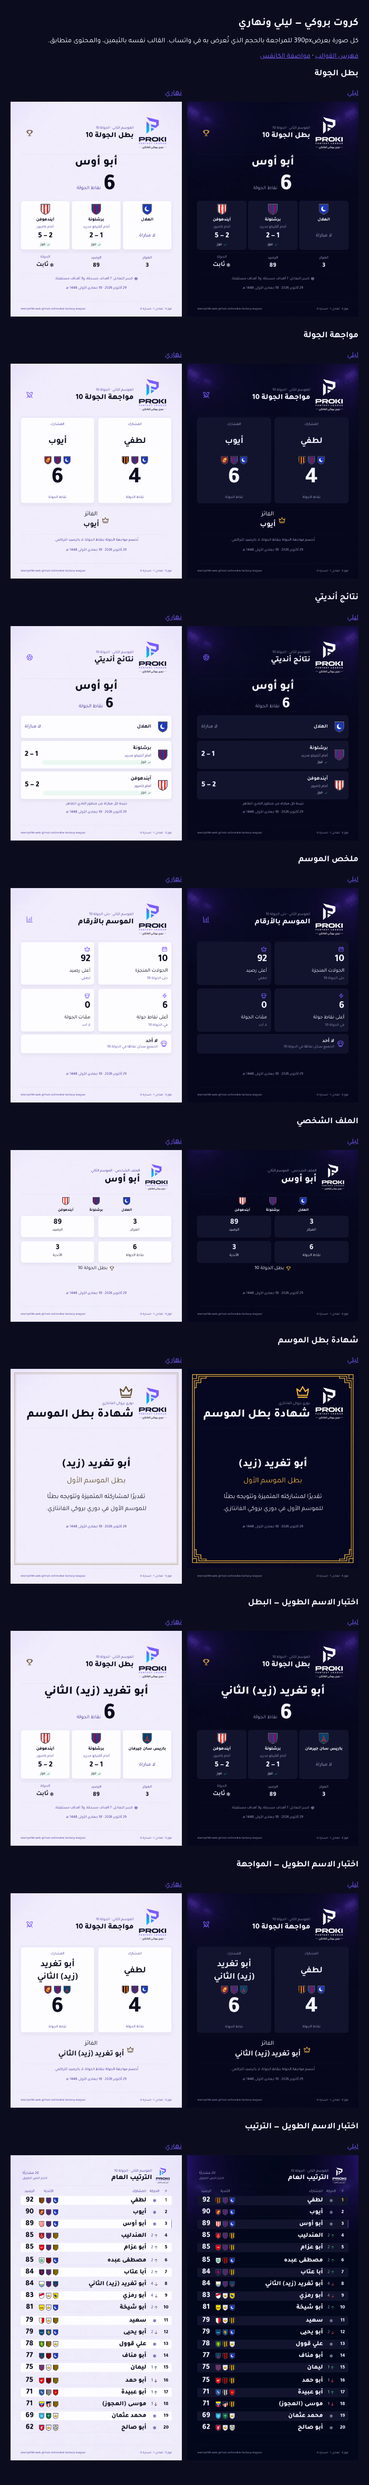
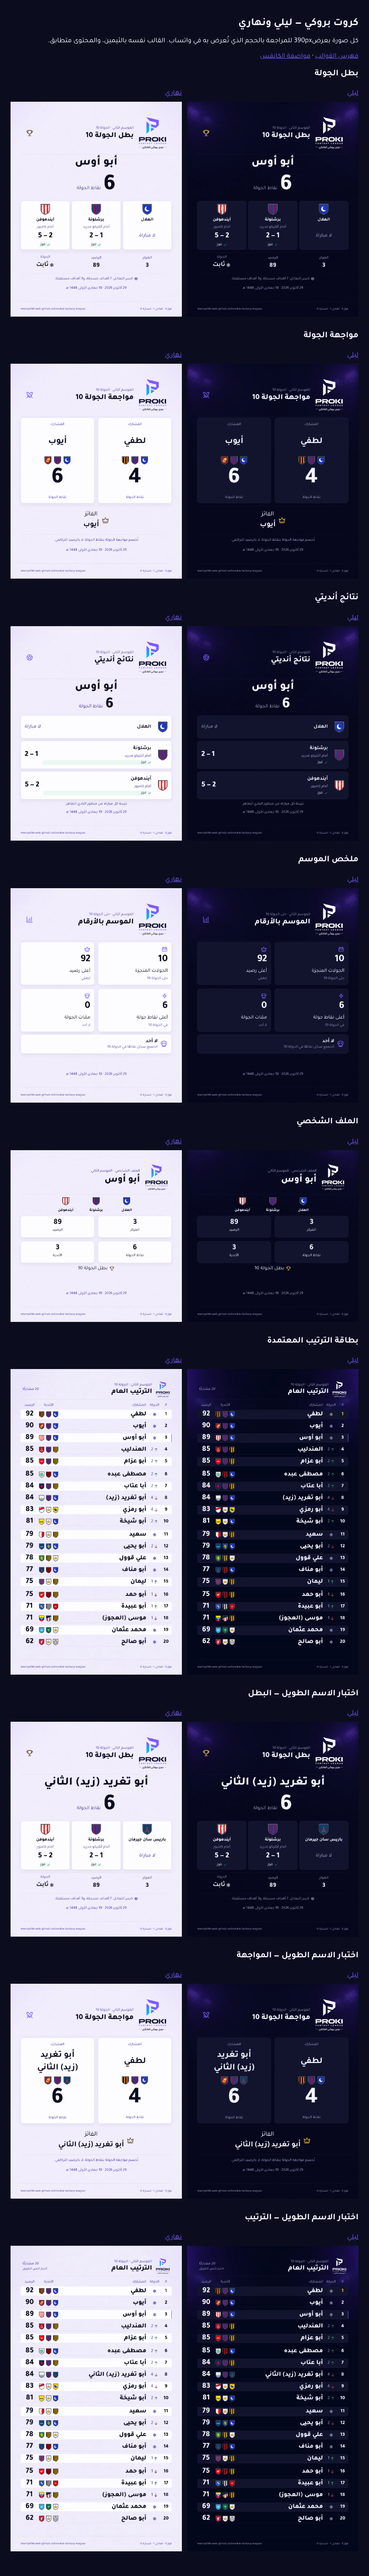
استبعاد الشهادة من الدفعة النهارية وفق نطاق المهمة المحدّث

diff --git a/assets/cards/cards-light-dark-compare.html b/assets/cards/cards-light-dark-compare.html
@@ -1,1 +1,1 @@
-<!doctype html><html lang="ar" dir="rtl"><head><meta charset="utf-8"><meta name="viewport" content="width=device-width,initial-scale=1"><title>كروت بروكي — ليلي ونهاري</title><link rel="stylesheet" href="../../css/tokens.css"><link rel="stylesheet" href="../../css/fonts.css"><style>body{margin:0;background:var(--c-bg);color:var(--c-text);font-family:var(--font)}main{max-width:840px;margin:auto;padding:24px}h1{font-size:24px}h2{font-size:20px}a{color:var(--c-brand)}.pair{display:grid;grid-template-columns:390px 390px;gap:12px;direction:rtl}.pair img{display:block;width:390px;height:auto}.pair figure{margin:0}.pair figcaption{padding:8px 0;color:var(--c-text-2)}section{margin-bottom:32px}@media(max-width:820px){main{padding:0}.pair{grid-template-columns:minmax(0,1fr);max-width:390px;margin-inline:auto}.pair img{width:100%}}</style></head><body><main><h1>كروت بروكي — ليلي ونهاري</h1><p>كل صورة بعرض390px للمراجعة بالحجم الذي تُعرض به في واتساب. القالب نفسه بالثيمين، والمحتوى متطابق.</p><p><a href="index.html">فهرس القوالب</a> · <a href="cards.layout.md">مواصفة الكانفس</a></p><section><h2>بطل الجولة</h2><div class="pair"><figure><figcaption><a href="champion-post.html?theme=dark">ليلي</a></figcaption><img src="shots/champion-post.png" alt="بطل الجولة — dark"></figure><figure><figcaption><a href="champion-post.html?theme=light">نهاري</a></figcaption><img src="shots/champion-post-light.png" alt="بطل الجولة — light"></figure></div></section><section><h2>مواجهة الجولة</h2><div class="pair"><figure><figcaption><a href="duel-post.html?theme=dark">ليلي</a></figcaption><img src="shots/duel-post.png" alt="مواجهة الجولة — dark"></figure><figure><figcaption><a href="duel-post.html?theme=light">نهاري</a></figcaption><img src="shots/duel-post-light.png" alt="مواجهة الجولة — light"></figure></div></section><section><h2>نتائج أنديتي</h2><div class="pair"><figure><figcaption><a href="my-clubs-post.html?theme=dark">ليلي</a></figcaption><img src="shots/my-clubs-post.png" alt="نتائج أنديتي — dark"></figure><figure><figcaption><a href="my-clubs-post.html?theme=light">نهاري</a></figcaption><img src="shots/my-clubs-post-light.png" alt="نتائج أنديتي — light"></figure></div></section><section><h2>ملخص الموسم</h2><div class="pair"><figure><figcaption><a href="season-wrap-post.html?theme=dark">ليلي</a></figcaption><img src="shots/season-wrap-post.png" alt="ملخص الموسم — dark"></figure><figure><figcaption><a href="season-wrap-post.html?theme=light">نهاري</a></figcaption><img src="shots/season-wrap-post-light.png" alt="ملخص الموسم — light"></figure></div></section><section><h2>الملف الشخصي</h2><div class="pair"><figure><figcaption><a href="profile-square.html?theme=dark">ليلي</a></figcaption><img src="shots/profile-square.png" alt="الملف الشخصي — dark"></figure><figure><figcaption><a href="profile-square.html?theme=light">نهاري</a></figcaption><img src="shots/profile-square-light.png" alt="الملف الشخصي — light"></figure></div></section><section><h2>شهادة بطل الموسم</h2><div class="pair"><figure><figcaption><a href="certificate-post.html?theme=dark">ليلي</a></figcaption><img src="shots/certificate-post.png" alt="شهادة بطل الموسم — dark"></figure><figure><figcaption><a href="certificate-post.html?theme=light">نهاري</a></figcaption><img src="shots/certificate-post-light.png" alt="شهادة بطل الموسم — light"></figure></div></section><section><h2>اختبار الاسم الطويل — البطل</h2><div class="pair"><figure><figcaption><a href="champion-post-stress.html?theme=dark">ليلي</a></figcaption><img src="shots/champion-post-stress.png" alt="اختبار الاسم الطويل — البطل — dark"></figure><figure><figcaption><a href="champion-post-stress.html?theme=light">نهاري</a></figcaption><img src="shots/champion-post-stress-light.png" alt="اختبار الاسم الطويل — البطل — light"></figure></div></section><section><h2>اختبار الاسم الطويل — المواجهة</h2><div class="pair"><figure><figcaption><a href="duel-post-stress.html?theme=dark">ليلي</a></figcaption><img src="shots/duel-post-stress.png" alt="اختبار الاسم الطويل — المواجهة — dark"></figure><figure><figcaption><a href="duel-post-stress.html?theme=light">نهاري</a></figcaption><img src="shots/duel-post-stress-light.png" alt="اختبار الاسم الطويل — المواجهة — light"></figure></div></section><section><h2>اختبار الاسم الطويل — الترتيب</h2><div class="pair"><figure><figcaption><a href="standings-card.html?stress=1&amp;theme=dark">ليلي</a></figcaption><img src="shots/standings-card-long-name-dark.png" alt="اختبار الاسم الطويل — الترتيب — dark"></figure><figure><figcaption><a href="standings-card.html?stress=1&amp;theme=light">نهاري</a></figcaption><img src="shots/standings-card-long-name-light.png" alt="اختبار الاسم الطويل — الترتيب — light"></figure></div></section></main></body></html>
+<!doctype html><html lang="ar" dir="rtl"><head><meta charset="utf-8"><meta name="viewport" content="width=device-width,initial-scale=1"><title>كروت بروكي — ليلي ونهاري</title><link rel="stylesheet" href="../../css/tokens.css"><link rel="stylesheet" href="../../css/fonts.css"><style>body{margin:0;background:var(--c-bg);color:var(--c-text);font-family:var(--font)}main{max-width:840px;margin:auto;padding:24px}h1{font-size:24px}h2{font-size:20px}a{color:var(--c-brand)}.pair{display:grid;grid-template-columns:390px 390px;gap:12px;direction:rtl}.pair img{display:block;width:390px;height:auto}.pair figure{margin:0}.pair figcaption{padding:8px 0;color:var(--c-text-2)}section{margin-bottom:32px}@media(max-width:820px){main{padding:0}.pair{grid-template-columns:minmax(0,1fr);max-width:390px;margin-inline:auto}.pair img{width:100%}}</style></head><body><main><h1>كروت بروكي — ليلي ونهاري</h1><p>كل صورة بعرض390px للمراجعة بالحجم الذي تُعرض به في واتساب. القالب نفسه بالثيمين، والمحتوى متطابق.</p><p><a href="index.html">فهرس القوالب</a> · <a href="cards.layout.md">مواصفة الكانفس</a></p><section><h2>بطل الجولة</h2><div class="pair"><figure><figcaption><a href="champion-post.html?theme=dark">ليلي</a></figcaption><img src="shots/champion-post.png" alt="بطل الجولة — dark"></figure><figure><figcaption><a href="champion-post.html?theme=light">نهاري</a></figcaption><img src="shots/champion-post-light.png" alt="بطل الجولة — light"></figure></div></section><section><h2>مواجهة الجولة</h2><div class="pair"><figure><figcaption><a href="duel-post.html?theme=dark">ليلي</a></figcaption><img src="shots/duel-post.png" alt="مواجهة الجولة — dark"></figure><figure><figcaption><a href="duel-post.html?theme=light">نهاري</a></figcaption><img src="shots/duel-post-light.png" alt="مواجهة الجولة — light"></figure></div></section><section><h2>نتائج أنديتي</h2><div class="pair"><figure><figcaption><a href="my-clubs-post.html?theme=dark">ليلي</a></figcaption><img src="shots/my-clubs-post.png" alt="نتائج أنديتي — dark"></figure><figure><figcaption><a href="my-clubs-post.html?theme=light">نهاري</a></figcaption><img src="shots/my-clubs-post-light.png" alt="نتائج أنديتي — light"></figure></div></section><section><h2>ملخص الموسم</h2><div class="pair"><figure><figcaption><a href="season-wrap-post.html?theme=dark">ليلي</a></figcaption><img src="shots/season-wrap-post.png" alt="ملخص الموسم — dark"></figure><figure><figcaption><a href="season-wrap-post.html?theme=light">نهاري</a></figcaption><img src="shots/season-wrap-post-light.png" alt="ملخص الموسم — light"></figure></div></section><section><h2>الملف الشخصي</h2><div class="pair"><figure><figcaption><a href="profile-square.html?theme=dark">ليلي</a></figcaption><img src="shots/profile-square.png" alt="الملف الشخصي — dark"></figure><figure><figcaption><a href="profile-square.html?theme=light">نهاري</a></figcaption><img src="shots/profile-square-light.png" alt="الملف الشخصي — light"></figure></div></section><section><h2>بطاقة الترتيب المعتمدة</h2><div class="pair"><figure><figcaption><a href="standings-card.html">ليلي</a></figcaption><img src="shots/standings-card-20-dark.png" alt="الترتيب الليلي"></figure><figure><figcaption><a href="standings-card.html?theme=light">نهاري</a></figcaption><img src="shots/standings-card-20-light.png" alt="الترتيب النهاري"></figure></div></section><section><h2>اختبار الاسم الطويل — البطل</h2><div class="pair"><figure><figcaption><a href="champion-post-stress.html?theme=dark">ليلي</a></figcaption><img src="shots/champion-post-stress.png" alt="اختبار الاسم الطويل — البطل — dark"></figure><figure><figcaption><a href="champion-post-stress.html?theme=light">نهاري</a></figcaption><img src="shots/champion-post-stress-light.png" alt="اختبار الاسم الطويل — البطل — light"></figure></div></section><section><h2>اختبار الاسم الطويل — المواجهة</h2><div class="pair"><figure><figcaption><a href="duel-post-stress.html?theme=dark">ليلي</a></figcaption><img src="shots/duel-post-stress.png" alt="اختبار الاسم الطويل — المواجهة — dark"></figure><figure><figcaption><a href="duel-post-stress.html?theme=light">نهاري</a></figcaption><img src="shots/duel-post-stress-light.png" alt="اختبار الاسم الطويل — المواجهة — light"></figure></div></section><section><h2>اختبار الاسم الطويل — الترتيب</h2><div class="pair"><figure><figcaption><a href="standings-card.html?stress=1&amp;theme=dark">ليلي</a></figcaption><img src="shots/standings-card-long-name-dark.png" alt="اختبار الاسم الطويل — الترتيب — dark"></figure><figure><figcaption><a href="standings-card.html?stress=1&amp;theme=light">نهاري</a></figcaption><img src="shots/standings-card-long-name-light.png" alt="اختبار الاسم الطويل — الترتيب — light"></figure></div></section></main></body></html>

diff --git a/assets/cards/index.html b/assets/cards/index.html
@@ -1,1 +1,1 @@
-<!doctype html><html lang="ar" dir="rtl"><head><meta charset="utf-8"><meta name="viewport" content="width=device-width,initial-scale=1"><title>قوالب بروكي النهائية</title><link rel="stylesheet" href="../../css/tokens.css"><link rel="stylesheet" href="../../css/fonts.css"><link rel="stylesheet" href="cards.css"></head><body><main class="gallery-page"><h1>كروت بروكي</h1><p>بطاقة الترتيب المعتمدة بمقاس1080×1920 تعرض الجميع في صورة واحدة، بنسختين ليلية ونهارية.</p><div class="gallery-links"><a class="gallery-link" href="standings-card.html"><span><b>بطاقة الترتيب الكاملة</b><small>20 مشاركًا · 1080×1920</small></span></a><a class="gallery-link" href="champion-post.html"><span><b>بطل الجولة</b><small>1080×1350</small></span></a><a class="gallery-link" href="duel-post.html"><span><b>مواجهة الجولة</b><small>1080×1350</small></span></a><a class="gallery-link" href="my-clubs-post.html"><span><b>نتائج أنديتي</b><small>1080×1350</small></span></a><a class="gallery-link" href="season-wrap-post.html"><span><b>ملخص الموسم</b><small>1080×1350</small></span></a><a class="gallery-link" href="profile-square.html"><span><b>الملف الشخصي</b><small>1080×1080</small></span></a><a class="gallery-link" href="certificate-post.html"><span><b>شهادة البطل</b><small>1080×1350</small></span></a></div><h2>القوالب النهارية</h2><div class="gallery-links"><a class="gallery-link" href="standings-card.html?theme=light">الترتيب الكامل — نهاري</a><a class="gallery-link" href="_crests-compare.html">مقارنة الليلي والنهاري</a><a class="gallery-link" href="standings-card.layout.md">مواصفة التخطيط الرقمية للكانفس</a></div><div class="gallery-links"><a class="gallery-link" href="champion-post.html?theme=light">بطل الجولة — نهاري</a><a class="gallery-link" href="duel-post.html?theme=light">مواجهة الجولة — نهاري</a><a class="gallery-link" href="my-clubs-post.html?theme=light">نتائج أنديتي — نهاري</a><a class="gallery-link" href="season-wrap-post.html?theme=light">ملخص الموسم — نهاري</a><a class="gallery-link" href="profile-square.html?theme=light">الملف الشخصي — نهاري</a><a class="gallery-link" href="certificate-post.html?theme=light">شهادة بطل الموسم — نهاري</a><a class="gallery-link" href="cards-light-dark-compare.html">مقارنة الكروت الستة وحالات الضغط بالثيمين</a><a class="gallery-link" href="cards.layout.md">مواصفة تخطيط الكروت الستة للكانفس</a></div><h2>اختبارات التكيّف والنص</h2><p class="gallery-note">هذه عينات اختبار هندسي؛ ليست نتائج بطولة بعدد مختلف من المشاركين. عينة24 تكرر صفًا مصدريًا بدل اختلاق مشاركين.</p><div class="gallery-links"><a class="gallery-link" href="standings-card.html?n=18">اختبار18 صفًا</a><a class="gallery-link" href="standings-card.html?n=24&amp;theme=light">اختبار24 صفًا</a><a class="gallery-link" href="standings-card.html?stress=1">أطول اسم ونادٍ — ليلي</a><a class="gallery-link" href="standings-card.html?stress=1&amp;theme=light">أطول اسم ونادٍ — نهاري</a><a class="gallery-link" href="champion-post-stress.html">اختبار بطل الجولة</a><a class="gallery-link" href="duel-post-stress.html">اختبار المواجهة</a></div><h2>مراجعة الهوية</h2><div class="gallery-links"><a class="gallery-link" href="_logo-compare.html">الشعار في القوالب الحالية</a><a class="gallery-link" href="../crests/_compare-light.html">شعارات الأندية على الفاتح والأبيض</a><a class="gallery-link" href="crests-light-check.html">فحص وضوح الأصول</a></div><p class="gallery-note">هذه معاينات ببيانات الجولة10. الكروت السبعة تعمل ليلًا ونهارًا؛ التصدير بالكانفس مهمة برمجية لاحقة.</p></main></body></html>
+<!doctype html><html lang="ar" dir="rtl"><head><meta charset="utf-8"><meta name="viewport" content="width=device-width,initial-scale=1"><title>قوالب بروكي النهائية</title><link rel="stylesheet" href="../../css/tokens.css"><link rel="stylesheet" href="../../css/fonts.css"><link rel="stylesheet" href="cards.css"></head><body><main class="gallery-page"><h1>كروت بروكي</h1><p>بطاقة الترتيب المعتمدة بمقاس1080×1920 تعرض الجميع في صورة واحدة، بنسختين ليلية ونهارية.</p><div class="gallery-links"><a class="gallery-link" href="standings-card.html"><span><b>بطاقة الترتيب الكاملة</b><small>20 مشاركًا · 1080×1920</small></span></a><a class="gallery-link" href="champion-post.html"><span><b>بطل الجولة</b><small>1080×1350</small></span></a><a class="gallery-link" href="duel-post.html"><span><b>مواجهة الجولة</b><small>1080×1350</small></span></a><a class="gallery-link" href="my-clubs-post.html"><span><b>نتائج أنديتي</b><small>1080×1350</small></span></a><a class="gallery-link" href="season-wrap-post.html"><span><b>ملخص الموسم</b><small>1080×1350</small></span></a><a class="gallery-link" href="profile-square.html"><span><b>الملف الشخصي</b><small>1080×1080</small></span></a><a class="gallery-link" href="certificate-post.html"><span><b>شهادة البطل</b><small>1080×1350</small></span></a></div><h2>القوالب النهارية</h2><div class="gallery-links"><a class="gallery-link" href="standings-card.html?theme=light">الترتيب الكامل — نهاري</a><a class="gallery-link" href="_crests-compare.html">مقارنة الليلي والنهاري</a><a class="gallery-link" href="standings-card.layout.md">مواصفة التخطيط الرقمية للكانفس</a></div><div class="gallery-links"><a class="gallery-link" href="champion-post.html?theme=light">بطل الجولة — نهاري</a><a class="gallery-link" href="duel-post.html?theme=light">مواجهة الجولة — نهاري</a><a class="gallery-link" href="my-clubs-post.html?theme=light">نتائج أنديتي — نهاري</a><a class="gallery-link" href="season-wrap-post.html?theme=light">ملخص الموسم — نهاري</a><a class="gallery-link" href="profile-square.html?theme=light">الملف الشخصي — نهاري</a><a class="gallery-link" href="cards-light-dark-compare.html">مقارنة الكروت الخمسة وحالات الضغط بالثيمين</a><a class="gallery-link" href="cards.layout.md">مواصفة تخطيط الكروت الخمسة للكانفس</a></div><h2>اختبارات التكيّف والنص</h2><p class="gallery-note">هذه عينات اختبار هندسي؛ ليست نتائج بطولة بعدد مختلف من المشاركين. عينة24 تكرر صفًا مصدريًا بدل اختلاق مشاركين.</p><div class="gallery-links"><a class="gallery-link" href="standings-card.html?n=18">اختبار18 صفًا</a><a class="gallery-link" href="standings-card.html?n=24&amp;theme=light">اختبار24 صفًا</a><a class="gallery-link" href="standings-card.html?stress=1">أطول اسم ونادٍ — ليلي</a><a class="gallery-link" href="standings-card.html?stress=1&amp;theme=light">أطول اسم ونادٍ — نهاري</a><a class="gallery-link" href="champion-post-stress.html">اختبار بطل الجولة</a><a class="gallery-link" href="duel-post-stress.html">اختبار المواجهة</a></div><h2>مراجعة الهوية</h2><div class="gallery-links"><a class="gallery-link" href="_logo-compare.html">الشعار في القوالب الحالية</a><a class="gallery-link" href="../crests/_compare-light.html">شعارات الأندية على الفاتح والأبيض</a><a class="gallery-link" href="crests-light-check.html">فحص وضوح الأصول</a></div><p class="gallery-note">هذه معاينات ببيانات الجولة10. بطاقة الترتيب والكروت الخمسة تعمل ليلًا ونهارًا؛ الشهادة الحالية محفوظة لإعادة تصميمها في C15؛ التصدير بالكانفس مهمة برمجية لاحقة.</p></main></body></html>

diff --git a/assets/cards/certificate-post.html b/assets/cards/certificate-post.html
@@ -2,4 +2,4 @@
 <html lang="ar" dir="rtl"><head><meta charset="utf-8"><meta name="viewport" content="width=device-width,initial-scale=1"><title>شهادة بطل الموسم الأول | دوري بروكي</title><link rel="stylesheet" href="../../css/tokens.css"><link rel="stylesheet" href="../../css/fonts.css"><link rel="stylesheet" href="cards.css"></head><body><main class="card certificate" data-template="certificate-post" aria-label="شهادة بطل الموسم الأول"><div class="safe"><header class="card-header"><img class="logo" src="../brand/proki-logo.svg" alt="PROKI Fantasy League — دوري بروكي الفانتازي" width="112" height="129"><div class="brand-heading"><svg class="icon ceremony-icon" aria-hidden="true" focusable="false" xmlns="http://www.w3.org/2000/svg" viewBox="0 0 24 24" fill="none" stroke="currentColor" stroke-width="1.75" stroke-linecap="round" stroke-linejoin="round">
   <path d="m4.5 17.5-1.5-10 4.8 4L12 4l4.2 7.5 4.8-4-1.5 10Z"/>
   <path d="M5 20.5h14"/>
-</svg><p class="eyebrow">دوري بروكي الفانتازي</p><h1>شهادة بطل الموسم</h1></div></header><div class="content"><h2 class="participant-name">أبو تغريد (زيد)</h2><p class="season-title">بطل الموسم الأول</p><p class="certificate-copy">تقديرًا لمشاركته المتميزة وتتويجه بطلًا للموسم الأول في دوري بروكي الفانتازي.</p><p class="date">29 أكتوبر 2026 · 18 جمادى الأولى 1448 هـ</p></div></div><footer class="card-footer"><span>فوز 3 · تعادل 1 · خسارة 0</span><a href="https://wwrrp456-web.github.io/brookie-fantasy-league/">wwrrp456-web.github.io/brookie-fantasy-league/</a></footer></main><script src="cards-theme.js"></script></body></html>
+</svg><p class="eyebrow">دوري بروكي الفانتازي</p><h1>شهادة بطل الموسم</h1></div></header><div class="content"><h2 class="participant-name">أبو تغريد (زيد)</h2><p class="season-title">بطل الموسم الأول</p><p class="certificate-copy">تقديرًا لمشاركته المتميزة وتتويجه بطلًا للموسم الأول في دوري بروكي الفانتازي.</p><p class="date">29 أكتوبر 2026 · 18 جمادى الأولى 1448 هـ</p></div></div><footer class="card-footer"><span>فوز 3 · تعادل 1 · خسارة 0</span><a href="https://wwrrp456-web.github.io/brookie-fantasy-league/">wwrrp456-web.github.io/brookie-fantasy-league/</a></footer></main></body></html>

diff --git a/assets/cards/cards.css b/assets/cards/cards.css
@@ -591,7 +591,7 @@ a:focus-visible {
 .card .club-grid{align-items:stretch}
 
 /* R-17: أسطح نهارية مستقلة؛ المقاسات والإيقاع مشتركة بين الثيمين. */
-html.light-mode .card{background-image:url(bg-post-light.webp)}
+html.light-mode .card:not(.certificate){background-image:url(bg-post-light.webp)}
 html.light-mode .card .club-panel,
 html.light-mode .card .duel-person,
 html.light-mode .card .stat-tile,
@@ -602,9 +602,7 @@ html.light-mode .card .empty-mummas{
 html.light-mode .card .gold,
 html.light-mode .card .champion-title .icon,
 html.light-mode .card .duel-winner .icon,
-html.light-mode .card .profile-badge .icon,
-html.light-mode .card .ceremony-icon,
-html.light-mode .card .season-title{color:color-mix(in srgb,var(--c-gold) 34%,var(--c-text))}
+html.light-mode .card .profile-badge .icon{color:color-mix(in srgb,var(--c-gold) 34%,var(--c-text))}
 html.light-mode .card .up{color:color-mix(in srgb,var(--c-up) 34%,var(--c-text))}
 html.light-mode .card .down{color:color-mix(in srgb,var(--c-down) 34%,var(--c-text))}
 html.light-mode .card .result-label{
@@ -613,12 +611,3 @@ html.light-mode .card .result-label{
 }
 html.light-mode .card [data-result="loss"] .result-label{background:color-mix(in srgb,var(--c-down) 8%,var(--c-surface-1))}
 html.light-mode .card [data-result="draw"] .result-label{background:var(--c-surface-2)}
-html.light-mode .certificate{background-size:cover}
-html.light-mode .certificate::before{
- content:'';position:absolute;inset:24px 24px 120px;pointer-events:none;
- border:2px solid color-mix(in srgb,var(--c-gold) 55%,var(--c-text));
-}
-html.light-mode .certificate::after{
- content:'';position:absolute;inset:32px 32px 128px;pointer-events:none;
- border:1px solid color-mix(in srgb,var(--c-gold) 55%,var(--c-text));
-}

diff --git a/specs/reports/001-T009g-light-cards.md b/specs/reports/001-T009g-light-cards.md
@@ -1,25 +1,27 @@
 # تقرير 001-T009g-light-cards
-**المنفّذ:** Codex · **الفرع:** `codex/001-T009g` · **PR:** [#46](https://github.com/wwrrp456-web/brookie-fantasy-league/pull/46) · **الحالة:** منجز
+**المنفّذ:** Codex · **الفرع:** `codex/001-T009g` · **PR:** [#46](https://github.com/wwrrp456-web/brookie-fantasy-league/pull/46) · **الحالة:** منجز وفق النطاق المحدّث في C14
 
 ## وش سويت
 
-نفذت أول أمر غير منجز C14 وقرار R-17، من آخر فرع التكامل بعد دمج PR #34. الكروت الستة تعمل الآن ليلًا ونهارًا بكلاس `html.light-mode`، بقالب واحد لكل كرت: البطل، والمواجهة، ونتائج أنديتي، وملخص الموسم، والملف الشخصي، والشهادة.
+أكملت C14 وقرار R-17 على خمسة كروت: بطل الجولة، والمواجهة، ونتائج أنديتي، وملخص الموسم، والملف الشخصي. كل كرت قالب واحد بالثيمين بكلاس `html.light-mode`، دون تغيير المحتوى أو النتائج. بدأ الفرع من التكامل بعد دمج PR #34.
 
-مساعد المعاينة `cards-theme.js` يبدل أصول الشعار الكامل والأندية فقط عند تغيير الكلاس، ويقرأ `?theme=light` أو`?theme=dark` إن وجد. لا يحسب نتائج ولا ينسخ بيانات أو محتوى. إضافة السكربت هي التغيير الوحيد في ملفات القوالب الثمانية، بما فيها نسختا ضغط البطل والمواجهة؛ بقية CSS المضاف محصور بالنهاري.
+فصلت أحدث تعليمات `specs/agents/CODEX.md` الشهادة إلى C15. لذلك أعدت `certificate-post.html` مطابقًا لنسخة التكامل بالبايت، وحذفت الإطار والأنماط واللقطة النهارية الخاصة بها، وأخرجتها من المقارنة ومواصفة الكانفس وقياسات C14. لا تصميم جديد للشهادة في هذا الطلب، ولا ملفات داخل `certificate-ideas/`.
 
-النهاري يستعمل خلفية `bg-post-light.webp` الموجودة (10370 بايت، دون نص)، مع أسطح من `--c-surface-1` وحدود وظلال هادئة للحاويات فقط. شرائح الفوز خفيفة من الأخضر والسطح، والنص الأساسي كحلي. لا ظل أو فلتر أو تمديد أو تدوير على شعار PROKI أو شعارات الأندية. الشهادة لها إطاران ذهبيان هندسيان من خلط رموز الذهب والنص، وتاج وعنوان موسم بلون ذهبي أغمق مقروء؛ الخلفية المشتركة تبقى هادئة.
+مساعد `cards-theme.js` يبدل الشعار الكامل وأصول الأندية فقط، ويقبل `?theme=light` و`?theme=dark` ويراقب تغيير الكلاس مباشرة. سكربت المعاينة مضاف إلى الكروت الخمسة ونسختي ضغط البطل والمواجهة؛ لا حسابات جديدة ولا نسخ للمحتوى. الشهادة لا تحمل المساعد.
 
-[مواصفة الكانفس](../../assets/cards/cards.layout.md) تسجل المقاسات والهوامش والرأس والشعار والأيقونات والنصوص وخطوط الأساس والأعمدة والأسطح والظلال وألوان الرموز بالثيمين لكل كرت، مع حالات الضغط. التخطيط متطابق بين الثيمين؛ الملف الشخصي1080×1080، والبقية1080×1350، والتذييل96px والمنطقة الآمنة64px.
+النهاري يستعمل الخلفية الموجودة `bg-post-light.webp` (10370 بايت)، مع أسطح وحدود وظلال هادئة للحاويات وحدها وشرائح نتائج خفيفة. الألوان من الرموز ومزائجها، دون hex أو إيموجي. لا ظل أو فلتر أو تدوير أو تمديد على أي شعار. بقي الرأس المعتمد والتذييل96px والمنطقة الآمنة64px، والملف الشخصي1080×1080 والبقية1080×1350.
+
+[مواصفة الكانفس](../../assets/cards/cards.layout.md) توثق الصناديق والإحداثيات والأعمدة والنصوص وخطوط الأساس والأيقونات والظلال والألوان بالثيمين للكروت الخمسة. بطاقة الترتيب لها [مواصفتها المستقلة](../../assets/cards/standings-card.layout.md)، وهي الكرت السادس العامل بالثيمين. بهذا تغطي المجموعة12 لقطة أساسية، دون إدخال الشهادة التي استُبعدت صراحة في التعليمات الأحدث.
 
 ## الأدلة
 
-- [مقارنة ليلية/نهارية](../../assets/cards/cards-light-dark-compare.html) و[لقطتها](../../assets/cards/cards-light-dark-compare.png): الكروت الستة وثلاث حالات ضغط، كل صورة بعرض390px. الفحص على نافذة390×844 أثبت عرض الصورة390 وعدم تجاوز الصفحة أفقيًا.
-- [الفهرس](../../assets/cards/index.html) يربط كل قالب ليلي ونهاري، والمقارنة والمواصفة. الروابط والموارد المحلية في الفهرس والمقارنة سليمة.
-- 12 لقطة أساسية بالحجم الحقيقي، و6 لقطات ضغط بالثيمين. الليلية الأساسية وليلية ضغط البطل والمواجهة مطابقة بالبايت للملفات المعتمدة؛ أُعيد استخدامها. ضغط الترتيب مطابق بالبايت لصور C13، فأعدت استخدام `standings-card-long-name-*` دون صور مكررة.
-- فحص18 نسخة في Chromium: لا أخطاء JavaScript أو موارد مفقودة، ولا تداخل عناصر أو نص خارج المنطقة الآمنة. الاسم «أبو تغريد (زيد) الثاني» والنادي «باريس سان جيرمان» واضحان في حالات الضغط.
-- تبديل الكلاس مباشرة في الاتجاهين للكروت الستة يحفظ النصوص والأرقام ويبدل الشعار والأندية؛ المحتوى بين الثيمين متطابق. فحص الإحداثيات لكل عنصر أكد تطابق التخطيط. لم تتغير بيانات العينات أو مصادرها أو بطاقة الترتيب أو ملفات SVG.
-- `node tests/run.js`: نجح268 وفشل0. `node tools/lint.js`: نظيف دون تراجع. `node tools/snap.js --only cards`: نجحت18 لقطة لمحرك الموقع الحالي. تحميل مساعدات Playwright/Chromium تم من `/tmp` دون تغيير أدوات المشروع. فحص المعاينات18 إضافة مستقلة عن لقطات المحرك الحالي.
-- axe في الكروت النهارية الستة: لا مخالفات، مع `color-contrast` غير مكتمل للنص فوق الصور؛ لم أعتبر ذلك إثباتًا للتباين. أخفيت حبر النص والصور والأيقونات مع حفظ التخطيط والخلفية والظلال، ثم حسبت أدنى تباين على جميع بكسلات كل صندوق نص وفق WCAG. هذا القياس محافظ ويغطي الأسطح والشرائح والخلفية الفعلية.
+- [المقارنة بالثيمين](../../assets/cards/cards-light-dark-compare.html) و[لقطتها](../../assets/cards/cards-light-dark-compare.png) تعرض الخمسة وبطاقة الترتيب، وثلاث حالات ضغط. [الفهرس](../../assets/cards/index.html) يربط المعاينات والمواصفات.
+- صور الكروت الخمسة الليلية وصورتا ضغط البطل والمواجهة مطابقة بالبايت للصور السابقة؛ الصور النهارية الجديدة في `shots/`. صور بطاقة الترتيب وحالة ضغطها معاد استخدامها من C13 دون تعديل.
+- فحص16 معاينة في Chromium: الكروت الخمسة × الثيمين، وحالات الضغط الثلاث × الثيمين. لا أخطاء موارد أو JavaScript أو تداخل أو خروج للنص عن المنطقة الآمنة. الاسم الطويل «أبو تغريد (زيد) الثاني» والنادي «باريس سان جيرمان» ظاهران دون اقتطاع.
+- تغيير الكلاس في الاتجاهين لكل واحد من الخمسة يحفظ النصوص والأرقام؛ أصول الشعار والأندية تتبدل، والإحداثيات متطابقة بين الثيمين.
+- الفهرس والمقارنة وروابطهما المحلية سليمة؛ صور المقارنة بعرض390px، وفحص نافذة390×844 لا يرصد تجاوزًا أفقيًا.
+- `node tests/run.js`: نجح268 وفشل0. `node tools/lint.js`: نظيف. `node tools/snap.js --only cards`: نجحت18 لقطة لمحرك الكروت الحالي. مساعدات Playwright وChromium من البيئة خارج ملفات المشروع؛ تحقق المعاينات مستقل عن لقطات المحرك.
+- axe لم يرصد مخالفات في الخمسة النهارية، مع بقاء تباين النص فوق الصور غير مكتمل؛ استكملت القياس حسابيًا وفق WCAG على جميع بكسلات صناديق النص بعد إخفاء الحبر والصور والأيقونات وحفظ التخطيط والخلفية والظلال.
 
 | القالب النهاري | أدنى تباين للنص |
 |---|---:|
@@ -28,25 +30,22 @@
 |نتائج أنديتي|8.6114:1|
 |ملخص الموسم|8.6114:1|
 |الملف الشخصي|8.6959:1|
-|الشهادة|7.4951:1|
-
-تباين إطار الشهادة مقابل أغمق بكسل في الخلفية **3.9542:1**، أعلى من3:1 للرسوم. النص الذهبي نفسه **7.4951:1**، أعلى من4.5:1. كل الألوان من الرموز ومزائجها، دون hex أو إيموجي.
 
 ### اللقطات
 
-- بطل الجولة: [ليلي](../../assets/cards/shots/champion-post.png) · [نهاري](../../assets/cards/shots/champion-post-light.png).
-- مواجهة الجولة: [ليلي](../../assets/cards/shots/duel-post.png) · [نهاري](../../assets/cards/shots/duel-post-light.png).
+- البطل: [ليلي](../../assets/cards/shots/champion-post.png) · [نهاري](../../assets/cards/shots/champion-post-light.png).
+- المواجهة: [ليلي](../../assets/cards/shots/duel-post.png) · [نهاري](../../assets/cards/shots/duel-post-light.png).
 - نتائج أنديتي: [ليلي](../../assets/cards/shots/my-clubs-post.png) · [نهاري](../../assets/cards/shots/my-clubs-post-light.png).
 - ملخص الموسم: [ليلي](../../assets/cards/shots/season-wrap-post.png) · [نهاري](../../assets/cards/shots/season-wrap-post-light.png).
-- الملف الشخصي: [ليلي](../../assets/cards/shots/profile-square.png) · [نهاري](../../assets/cards/shots/profile-square-light.png).
-- الشهادة: [ليلي](../../assets/cards/shots/certificate-post.png) · [نهاري](../../assets/cards/shots/certificate-post-light.png).
+- الملف: [ليلي](../../assets/cards/shots/profile-square.png) · [نهاري](../../assets/cards/shots/profile-square-light.png).
+- الترتيب المعتمد: [ليلي](../../assets/cards/shots/standings-card-20-dark.png) · [نهاري](../../assets/cards/shots/standings-card-20-light.png).
 
-حالات الضغط النهارية: [البطل](../../assets/cards/shots/champion-post-stress-light.png)، [المواجهة](../../assets/cards/shots/duel-post-stress-light.png)، [الترتيب](../../assets/cards/shots/standings-card-long-name-light.png). المقارنة تعرض مقابلها الليلي أيضًا. القياسات وفحوص التباين وتطابق صور الليل محفوظة تحت C14 في [verification.json](../../assets/cards/verification.json)، مع حفظ نتائج C13.
+ضغط النهاري: [البطل](../../assets/cards/shots/champion-post-stress-light.png)، [المواجهة](../../assets/cards/shots/duel-post-stress-light.png)، [الترتيب](../../assets/cards/shots/standings-card-long-name-light.png). المقارنة تعرض مقابلها الليلي. القياسات محفوظة تحت C14 في [verification.json](../../assets/cards/verification.json)، مع حفظ نتائج C13.
 
 ## قرارات اتخذتها خارج الأمر وليش
 
-لا تغيير خارج التفويض. أعدت استخدام الخلفية الفاتحة بدل توليد أصل جديد؛ حجمها أقل من120KB ومناسبة لكل المقاسات. اخترت إطارًا مزدوجًا للشهادة من مزج الذهب مع النص، لأن الذهب الصافي ضعيف على الفاتح؛ الإطار هندسي بسيط ويحفظ دلالة البطولة. الظلال على الحاويات وحدها لتوضيح الطبقات. أعدت استخدام الصور الليلية وصور ضغط الترتيب المطابقة لتجنب التكرار. تعليقات حالات الخسارة والتعادل في CSS تجهز أسلوب الشريحة دون اختراع مباريات للعينات.
+لا تغيير خارج التفويض. اتبعت الاستبعاد الصريح الأحدث للشهادة، وفسرت عبارة «6 كروت × ثيمين» بأنها الخمسة مع بطاقة الترتيب المعتمدة؛ لم أعد إدخال الشهادة لتلبية العدد. الخلفية الموجودة مناسبة وحجمها دون120KB، لذلك أعدت استخدامها. الظلال للحاويات فقط، والصور الليلية وصور ضغط الترتيب معاد استخدامها لتجنب التكرار.
 
 ## أسئلة للمنظّم أو Opus
 
-لا أسئلة معلقة. C14 منجز وجاهز للمراجعة. لم أعدّل ملفات التطبيق أو محرك التصدير أو أضف اختيار الثيم داخل الموقع؛ ذلك ضمن مهام Sonnet. توقفت بعد هذا الأمر، دون دمج أو نشر.
+لا أسئلة معلقة. C14 منجز وفق نطاقه المحدّث، وجاهز للمراجعة على PR #46. توقفت قبل C15؛ لا تنفيذ لأفكار الشهادة، ولا تعديل لمحرك التصدير أو التطبيق، ولا دمج أو نشر.

diff --git a/assets/cards/cards.layout.md b/assets/cards/cards.layout.md
@@ -1,17 +1,17 @@
-# مواصفة تخطيط الكروت الستة — R-17
+# مواصفة تخطيط الكروت الخمسة — R-17
 
-المرجع البصري: ملفات القوالب الستة بجوار هذه المواصفة. كل قالب واحد بالثيمين، دون نسخ صفوف أو نصوص. هذه مواصفة رسم الكانفس؛ لا تغيّر نتائج الدوري أو بياناته. البيانات المضمنة عينات الجولة10 من `specs/001-ui-visual-overhaul/card-data.json`؛ الشهادة لبطل الموسم الأول أبو تغريد (زيد). التواريخ المعروضة تواريخ العينات.
+المرجع البصري: ملفات القوالب الخمسة بجوار هذه المواصفة. كل قالب واحد بالثيمين، دون نسخ صفوف أو نصوص. هذه مواصفة رسم الكانفس؛ لا تغيّر نتائج الدوري أو بياناته. البيانات المضمنة عينات الجولة10 من `specs/001-ui-visual-overhaul/card-data.json`. التواريخ المعروضة تواريخ العينات.
 
 ## النظام المشترك
 
 - أصل الإحداثيات أعلى اليسار؛ جميع القيم px على مقياس1080، دون تحجيم داخلي. RTL افتراضيًا؛ الأرصدة والنتائج والرابط اللاتيني يعزل اتجاهها بحسب القالب. الأرقام لاتينية.
-- المنشورات والشهادة1080×1350؛ الملف الشخصي1080×1080. المنطقة الآمنة x64، عرض952، y64، ونهايتها `H-160`. التذييل x64، y=`H-96`، عرض952، ارتفاع96؛ حد علوي1 من`--c-border`. مركز المحتوى الداخلي للتذييل y=`H-47.5`، خط20/32 بوزن400، نقاط النظام يمين x1016 والرابط يسار x64.
-- الخلفية الليليّة `bg-post.webp`، والشهادة `cert-frame.webp` كما كانت؛ النهاري للجميع `bg-post-light.webp` بحجمcover ومحاذاةcenter. قيمته الأصلية1080×1350؛ في المربع يُقص رأسيًا135px من الأعلى والأسفل، دون تمديد غير متناسب. اللوحة تحت الصورة `--c-bg` بحسب الثيم.
+- المنشورات1080×1350؛ الملف الشخصي1080×1080. المنطقة الآمنة x64، عرض952، y64، ونهايتها `H-160`. التذييل x64، y=`H-96`، عرض952، ارتفاع96؛ حد علوي1 من`--c-border`. مركز المحتوى الداخلي للتذييل y=`H-47.5`، خط20/32 بوزن400، نقاط النظام يمين x1016 والرابط يسار x64.
+- الخلفية الليليّة `bg-post.webp`؛ النهاري للجميع `bg-post-light.webp` بحجمcover ومحاذاةcenter. قيمته الأصلية1080×1350؛ في المربع يُقص رأسيًا135px من الأعلى والأسفل، دون تمديد غير متناسب. اللوحة تحت الصورة `--c-bg` بحسب الثيم.
 - حمّل Tajawal المحلي من `css/fonts.css`، الأوزان400 و700 و800، وانتظر الخطوط والصور قبل الرسم. إحداثيات الجداول أدناه مقاسة بعد التحميل، بدقة1/64px. `Q(v)=round(v*64)/64`؛ لا تقرّبها إلى أعداد صحيحة.
-- الرأس العادي grid RTL: عرض176 للشعار، فاصل32، وباقي680 للعنوان، padding32 وحد سفلي1. عرض المحتوى الداخلي888. أعلى الرأس y64، الشعارx808، وعرض176 وارتفاع202.25. ارتفاع الرأس267.25، ويبدأ المحتوىy339.25 بفاصل8. الشهادة لها رأس أطول بسبب العنوان والتاج؛ موقعه محدد في جدولها.
+- الرأس العادي grid RTL: عرض176 للشعار، فاصل32، وباقي680 للعنوان، padding32 وحد سفلي1. عرض المحتوى الداخلي888. أعلى الرأس y64، الشعارx808، وعرض176 وارتفاع202.25. ارتفاع الرأس267.25، ويبدأ المحتوىy339.25 بفاصل8.
 - الملف الشخصي: رأس padding24، عمود الشعار144، فاصل32، وعمود عنوان728؛ ارتفاع214.46875. الشعارx848,y88، حجمه144×165.46875. المحتوى يبدأy294.46875 بفاصل16.
 - الشعار الكامل الأبيض `proki-logo.svg` ليلًا والفاتح `proki-logo-light.svg` نهارًا؛ النسبة476:547، object-fit:contain. الأندية من `assets/crests/` ليلًا و`assets/crests/light/` نهارًا. صفر ظل أو فلتر أو تدوير على الصور والشعارات. المكتبة الحالية للأيقونات viewBox24 وstroke1.75 بنهاياتround، لا تعكس الأسهم أو نتيجة المباراة.
-- للمحتوى flex عمودي بارتفاع المساحة المتبقية؛ الفجوة16 إلا نتائج أنديتي12 والشهادة32. التاريخ margin-top:auto، وفي الشهادة margin-top24 إضافية داخل كتلة وسطية. قياس كل صندوق أدناه يشمل padding والحدود.
+- للمحتوى flex عمودي بارتفاع المساحة المتبقية؛ الفجوة16 إلا نتائج أنديتي12. التاريخ margin-top:auto. قياس كل صندوق أدناه يشمل padding والحدود.
 
 ## الألوان والأسطح بالثيمين
 
@@ -22,7 +22,7 @@
 |العنوان والاسم والأرصدة والنتائج والنص الأساسي|`--c-text`|`--c-text`|
 |الوصف والتاريخ والتذييل والتعادل والثبات|`--c-text-2`|`--c-text-2`|
 |أيقونة عنوان عادية وإحصائيات|`--c-brand`|`--c-brand`|
-|كأس البطل وتاج الفائز وشارة البطل وعنوان موسم الشهادة|`--c-gold`|mix34(`--c-gold`,`--c-text`)|
+|كأس البطل وتاج الفائز وشارة البطل|`--c-gold`|mix34(`--c-gold`,`--c-text`)|
 |فوز/صعود|`--c-up`|mix34(`--c-up`,`--c-text`)|
 |خسارة/هبوط|`--c-down`|mix34(`--c-down`,`--c-text`)|
 |سطح لوحة/إحصائية/مواجهة/مباراة|`--c-surface-1`|`--c-surface-1`|
@@ -33,15 +33,13 @@
 
 اللوحات: حد1 وزاوية16 (`--r-lg`). النهاري فقط: ظل x0,y8,blur24,spread0 بلونmix6(`--c-text`,شفاف)، على `.club-panel,.duel-person,.stat-tile,.match-row,.empty-mummas` فقط. لا ظل على أيقونة أو شعار أو اللوحة الكاملة. شرائح النتائج النهارية radius999 (`--r-pill`) بلا إضافةpadding أو تغيير القياس؛ تفاصيل الخسارة والتعادل حالات تصميم، لا تُضاف نتائج لها إلى البيانات التجريبية.
 
-الشهادة النهارية: إطاران دون ظل، منmix55(`--c-gold`,`--c-text`). الخارجي x24,y24,w1032,h1206، بسمك2 إلى الداخل؛ الداخلي x32,y32,w1016,h1190 بسمك1 إلى الداخل. لا صورة جديدة للإطار؛ زينة هندسية هادئة منفصلة عن الخلفية. التاج96×96 في الرأس، بلونmix34 الذهبي؛ القياسات أدناه. بقية عناصر الشهادة بلون النص، مع عنوان الموسم الذهبي.
-
 ## طريقة استخدام الجداول للكانفس
 
 الجداول التالية كاملة لكل عنصر مرئي وصندوق يحتويه في العينات الأساسية. المعرف E محلي لكل كرت، والأب هو معرف صندوقه. يُرسم الأعضاء في ترتيب DOM؛ الخلفية والحد والظل خلف الأبناء. الأرقام هي صناديق border-box، بينما جدول النصوص يعطي صناديق الحبر التخطيطية وخط الأساس لكل سطر، بما فيها النصوص المختلطة RTL/LTR. لا تستخدم قياس صندوق النص لتغيير عرض الأعمدة.
 
 للنص، استخدم Tajawal بالحجم والوزن المحددين، `textBaseline='alphabetic'`. baseline المسجل يساوي أعلى مستطيل Range + `measureText(text).fontBoundingBoxAscent` بالخط المحمل. ارسم العربية RTL والأرقام والنتائج المعزولة LTR. نص السطر نفسه قد ينقسم إلى مقطعين بصريين بسبب الأرقام؛ اتحاد المستطيلين هو صندوقه المسجل. لا تقسم شكل الحروف إلى رسومات مستقلة.
 
-للمحتوى الديناميكي: حافظ على الصناديق والعرض والفجوات، ولف عند المسافات فقط. اختر أقل عدد أسطر يتسع بالعرض المحدد، ووازن عرض الأسطر في اسم المشارك وفق `text-wrap:balance`، دون كلمة يتيمة؛ عند تعذر اتساع كلمة مفردة يسمح بالكسر كما في `overflow-wrap:anywhere`. اسم البطل72/93.6 داخل952؛ اسم المواجهة56/78.4 داخل430 مع حد أدنى156px ووسط رأسي؛ اسم الملف60/78 داخل728؛ اسم الشهادة68/88.4 داخل952. حالات الضغط الثلاث لها قياس منفصل أدناه، ولقطاتها مرجع مطابقة التفاف الاسم. لا تخترع بيانات لسد فراغ.
+للمحتوى الديناميكي: حافظ على الصناديق والعرض والفجوات، ولف عند المسافات فقط. اختر أقل عدد أسطر يتسع بالعرض المحدد، ووازن عرض الأسطر في اسم المشارك وفق `text-wrap:balance`، دون كلمة يتيمة؛ عند تعذر اتساع كلمة مفردة يسمح بالكسر كما في `overflow-wrap:anywhere`. اسم البطل72/93.6 داخل952؛ اسم المواجهة56/78.4 داخل430 مع حد أدنى156px ووسط رأسي؛ اسم الملف60/78 داخل728. حالات الضغط الثلاث لها قياس منفصل أدناه، ولقطاتها مرجع مطابقة التفاف الاسم. لا تخترع بيانات لسد فراغ.
 
 ## champion-post
 
@@ -406,42 +404,6 @@
 |E35|فوز 3 · تعادل 1 · خسارة 0|817.3125|1022.5|198.6875|20|1035.5|20 / 400 / 32px|`--c-text-2`|
 |E36|wwrrp456-web.github.io/brookie-fantasy-league/|64|1022.5|408.78125|20|1035.5|20 / 400 / 32px|`--c-text-2`|
 
-## certificate-post
-
-الأبعاد1080×1350. قياسات الصناديق متطابقة بين الثيمين.
-
-|المعرف / الأب|العنصر|x|y|w|h|
-|---|---|---:|---:|---:|---:|
-|E1 / M|`safe`|64|64|952|1126|
-|E2 / E1|`card-header`|64|64|952|306.59375|
-|E3 / E2|`logo`|808|115.671875|176|202.25|
-|E4 / E2|`brand-heading`|96|96|680|241.59375|
-|E5 / E4|`icon ceremony-icon`|680|96|96|96|
-|E6 / E4|`eyebrow`|577.609375|200|198.390625|36|
-|E7 / E4|`H1`|103.296875|244|672.703125|93.59375|
-|E8 / E1|`content`|64|378.59375|952|811.40625|
-|E9 / E8|`participant-name`|323.484375|557.09375|433.03125|88.390625|
-|E10 / E8|`season-title`|354.84375|677.484375|370.328125|58|
-|E11 / E8|`certificate-copy`|140|767.484375|800|152|
-|E12 / E8|`date`|348.734375|975.484375|382.53125|36|
-|E13 / M|`card-footer`|64|1254|952|96|
-|E14 / E13|`SPAN`|817.3125|1286.5|198.6875|32|
-|E15 / E13|`A`|64|1286.5|408.78125|32|
-
-النصوص: اللون الافتراضي الأساسي `--c-text` والثانوي `--c-text-2` في الثيمين؛ الذهب يعالج حسب جدول الألوان. `normal` تعني مقاييس Tajawal الأصلية في السطر، دون line-height مفروض.
-
-|العنصر|النص|x|y|w|h|baseline|الحجم / الوزن / line-height|اللون الليلي|
-|---|---|---:|---:|---:|---:|---:|---|---|
-|E6|دوري بروكي الفانتازي|577.609375|206|198.390625|24|221|24 / 400 / 36px|`--c-text-2`|
-|E7|شهادة بطل الموسم|103.296875|254|672.703125|72|300|72 / 800 / 93.6px|`--c-text`|
-|E9|أبو تغريد (زيد)|323.484375|567.09375|433.03125|68|611.09375|68 / 800 / 88.4px|`--c-text`|
-|E10|بطل الموسم الأول|354.84375|682.484375|370.328125|48|713.484375|48 / 400 / normal|`--c-gold`|
-|E11|تقديرًا لمشاركته المتميزة وتتويجه بطلًا للموسم الأول في دوري بروكي الفانتازي.|230.671875|785.484375|618.640625|40|811.484375|40 / 400 / 76px|`--c-text`|
-|E11|تقديرًا لمشاركته المتميزة وتتويجه بطلًا للموسم الأول في دوري بروكي الفانتازي.|223.453125|861.484375|633.09375|40|887.484375|40 / 400 / 76px|`--c-text`|
-|E12|29 أكتوبر 2026 · 18 جمادى الأولى 1448 هـ|348.734375|981.484375|382.53125|24|996.484375|24 / 400 / 36px|`--c-text-2`|
-|E14|فوز 3 · تعادل 1 · خسارة 0|817.3125|1292.5|198.6875|20|1305.5|20 / 400 / 32px|`--c-text-2`|
-|E15|wwrrp456-web.github.io/brookie-fantasy-league/|64|1292.5|408.78125|20|1305.5|20 / 400 / 32px|`--c-text-2`|
-
 ## حالات الضغط والمراجعة
 
 `champion-post-stress.html` و`duel-post-stress.html` يحملان نفس مساعد الثيم؛ `standings-card.html?stress=1` يستخدم مساعد بطاقة الترتيب. الاسم «أبو تغريد (زيد) الثاني» والنادي «باريس سان جيرمان» في عينات الضغط فقط. لا تتغير بيانات النسخة النهارية عن الليلية. اللقطات في `shots/<name>-stress-light.png`، ومقابلها الليلية؛ بطاقة الترتيب لها أيضًا `shots/standings-card-long-name-light.png`.
@@ -469,3 +431,7 @@
 |H2|81|412.25|430|156.78125|
 
 جميع قياسات بطاقة الترتيب الأساسية والمتكيفة في `standings-card.layout.md`، لم تتغير في C14. `cards-theme.js` يطبق الكلاس من معاملtheme إن وُجد، ويراقب تغييره مباشرة؛ لا يعدل المحتوى ولا الأرصدة. التصدير واختيار الوضع داخل الموقع مهمة Sonnet اللاحقة.
+
+## حدود C14 بعد فصل الشهادة
+
+الشهادة ليست ضمن هذا الأمر؛ قالبها ولقطتها الليلية محفوظان دون تغيير. تصميمها يخص C15. بطاقة الترتيب هي الكرت السادس العامل بالثيمين، ومواصفتها الرقمية المستقلة في `standings-card.layout.md`. بهذا تغطي المجموعة12 لقطة أساسية: خمسة كروت هنا وبطاقة الترتيب، كل منها ليلي ونهاري.
